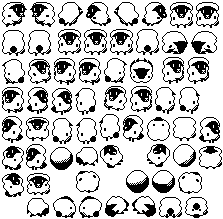
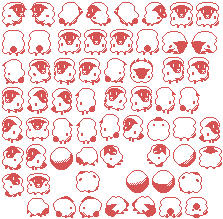
recolor assets, more work on gameover

diff --git a/src/scenes/boxing.js b/src/scenes/boxing.js
@@ -48,10 +48,10 @@ class Boxing extends Phaser.Scene {
             // ending selection logic
             this.clock = this.time.delayedCall(6500, () => {
                 let target = 'special'
-                if (this.hits >= 200) {
+                if (this.hits >= 50) {
                     target = 'ending'; // make this go to a special ending
                 }
-                else if (this.hits >= 100) {
+                else if (this.hits >= 25) {
                     target = 'ending'; // normal ending
                 }
                 else {

diff --git a/src/scenes/gameover.js b/src/scenes/gameover.js
@@ -2,4 +2,8 @@ class GameOver extends Phaser.Scene {
     constructor() {
         super('gameover');
     }
+    preload() {
+        this.load.aseprite('dizzy', "./assets/dizzy_sheep.png", './assets/dizzy_sheep.json');
+        this.load.aseprite('countdown', './assets/countdown.png', './assets/countdown.json');
+    }
 }
